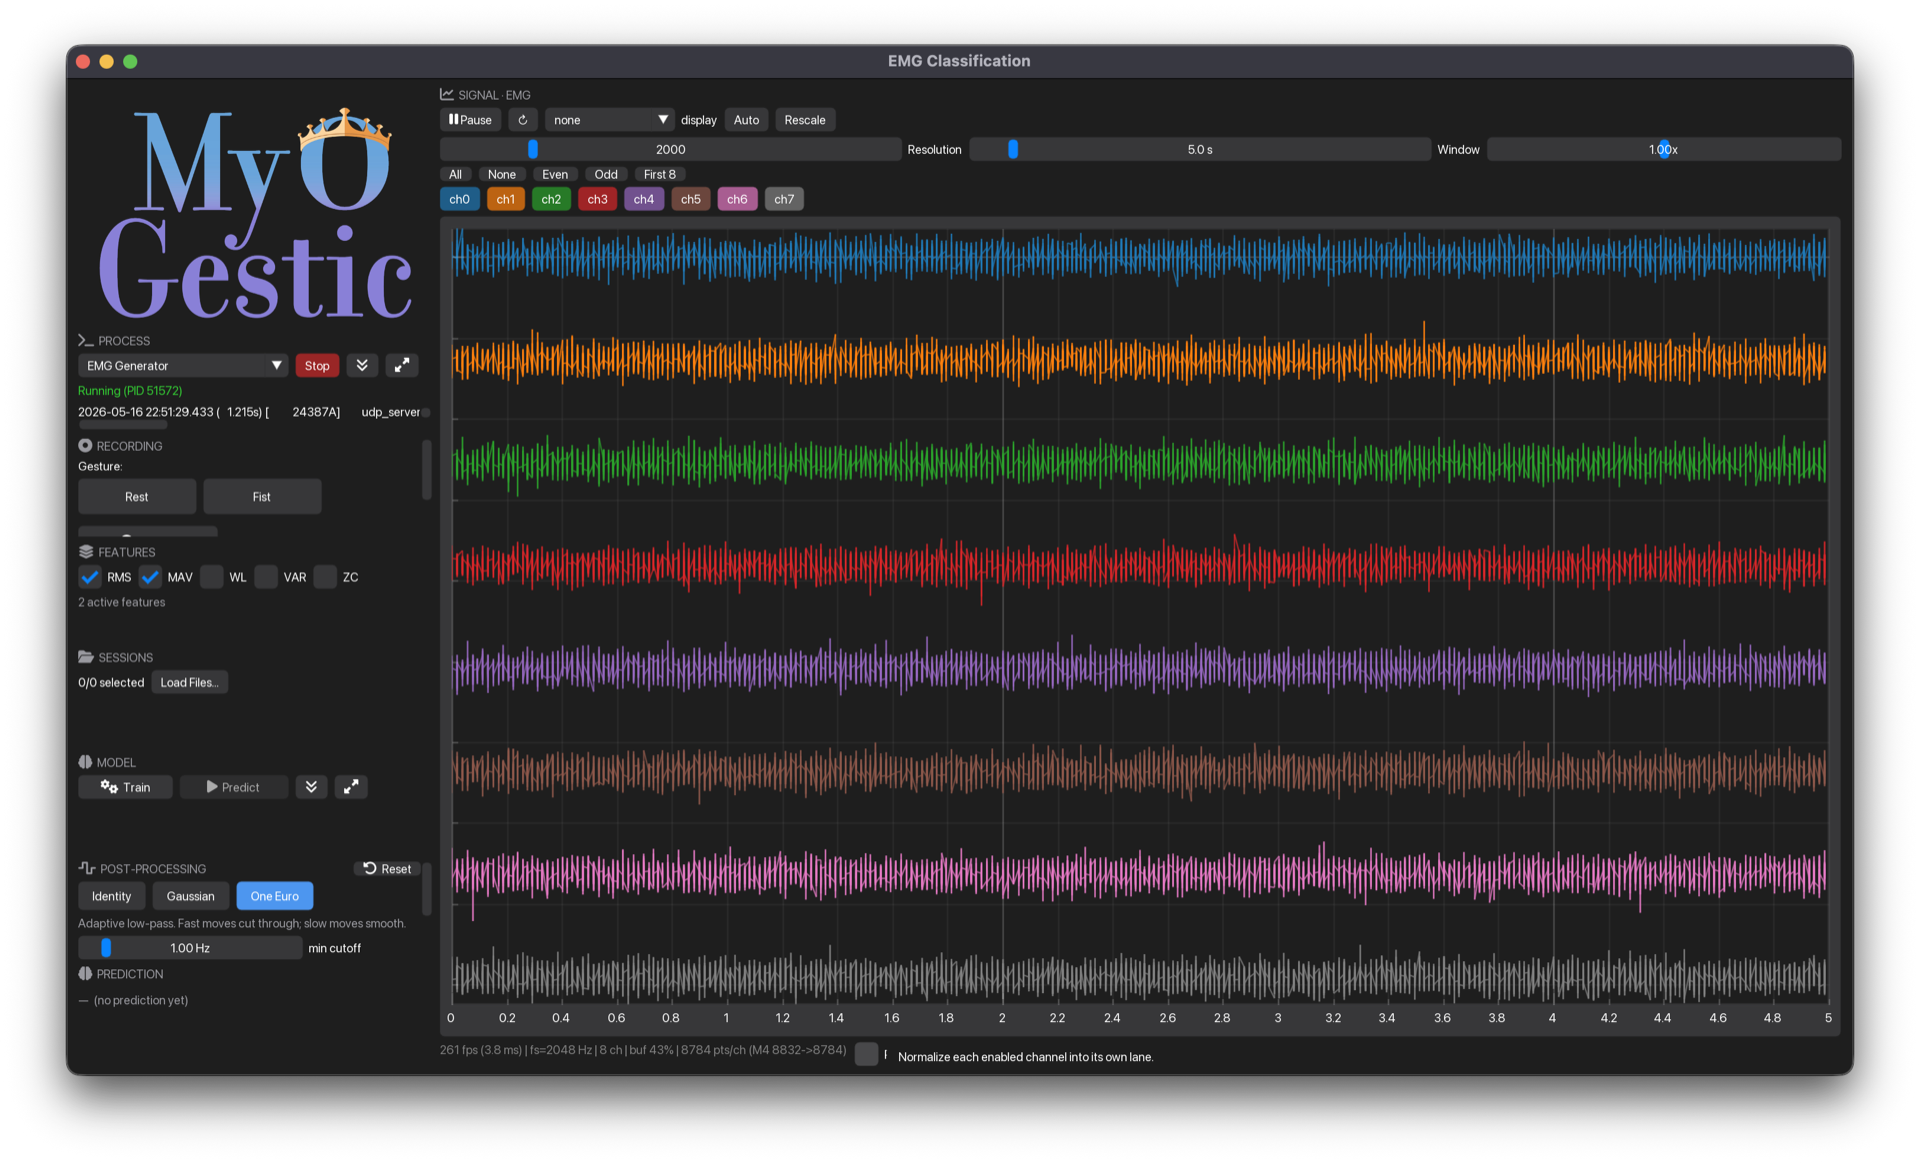
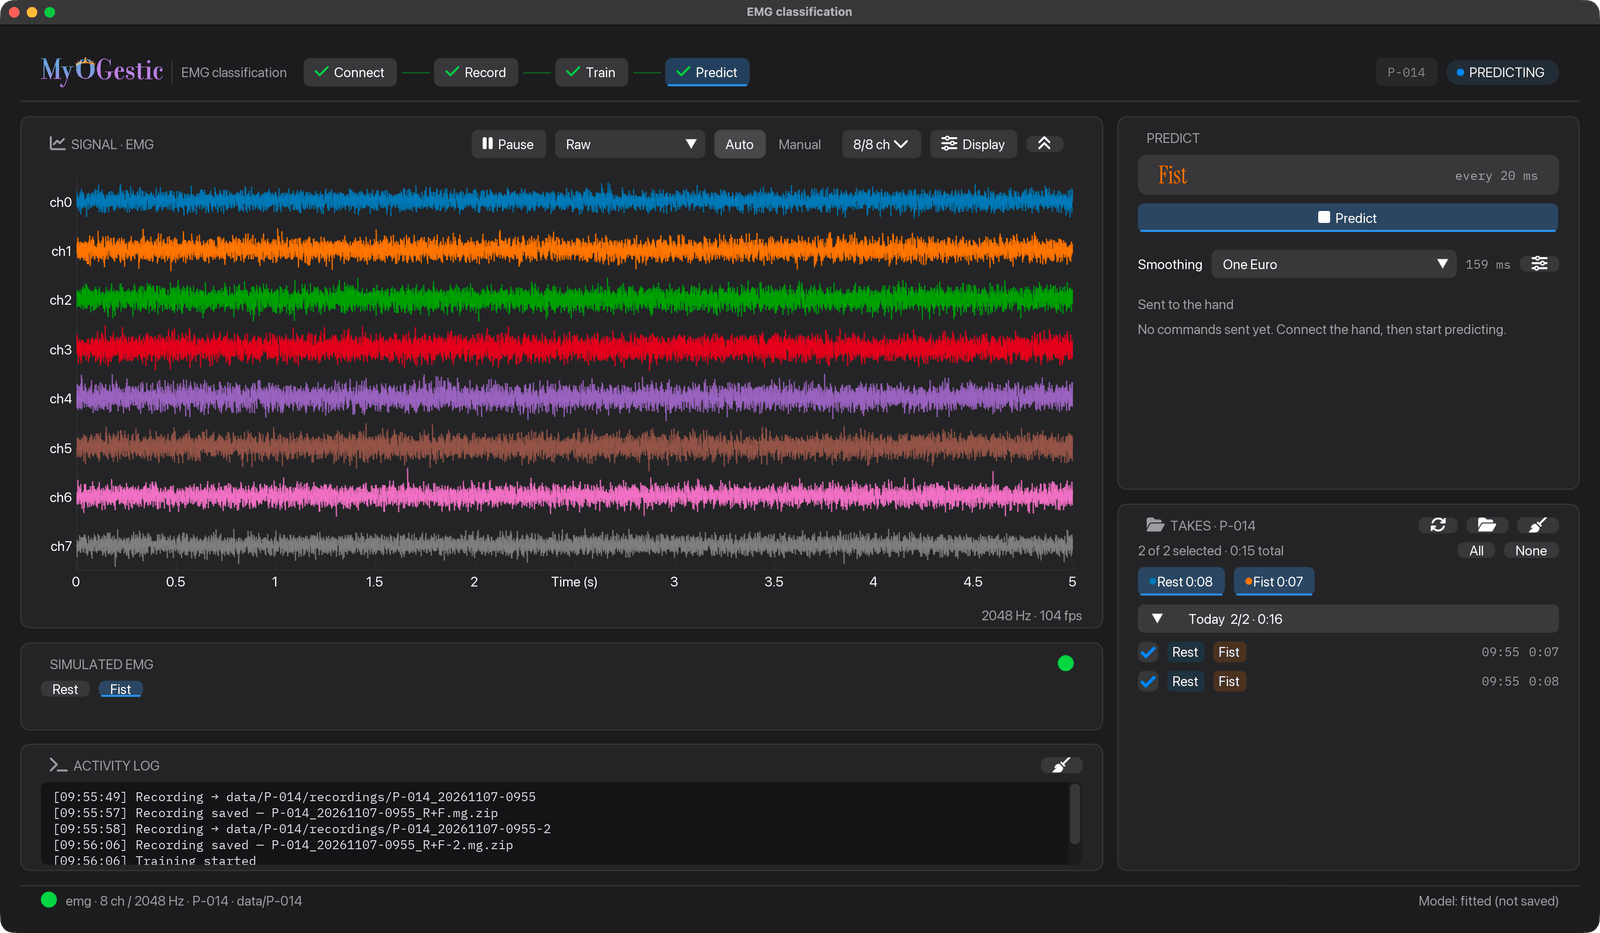
docs: refresh classification screenshot and VHI integration diagram

diff --git a/docs/tutorials/emg-classification.md b/docs/tutorials/emg-classification.md
@@ -20,9 +20,7 @@ VHI is optional: recording, training and prediction all work without it or the `
 
 ## What you should see
 
-![Earlier EMG classification layout](../images/gui-overview.png){ loading=lazy }
-
-This screenshot shows the earlier layout. The current app uses the steps described below.
+![EMG classification predicting from the connected synthetic stream](../images/gui-overview.png){ loading=lazy }
 
 The header carries **Connect → Record → Train → Predict**, the participant and session state. The signal and **Simulated EMG** controls stay visible beside the active step, with participant sessions and an activity log below. At narrow widths the same cards stack vertically.
 

diff --git a/docs/how-to/integrate-vhi.md b/docs/how-to/integrate-vhi.md
@@ -16,6 +16,12 @@ If VHI isn't installed yet, see **[Install the Virtual Hand](install-vhi.md)**.
 
 ![VHI dual-plane integration](../images/vhi-integration.svg){ align=center }
 
+`RemoteTarget` publishes continuous controls over LSL and queues discrete `SetControl`
+commands through `RemoteClient`. That client queries `GetControlManifest` for control
+capabilities. A separate `RecordingClient` calls `SetRecordingSession` to gate recording
+and `GetRecordingSessionState` to read session state and the current movement. The
+`VHI_Control` and `VHI_Predict` LSL streams return the two hands' poses.
+
 ## The one-liner that wires it up
 
 ```python
